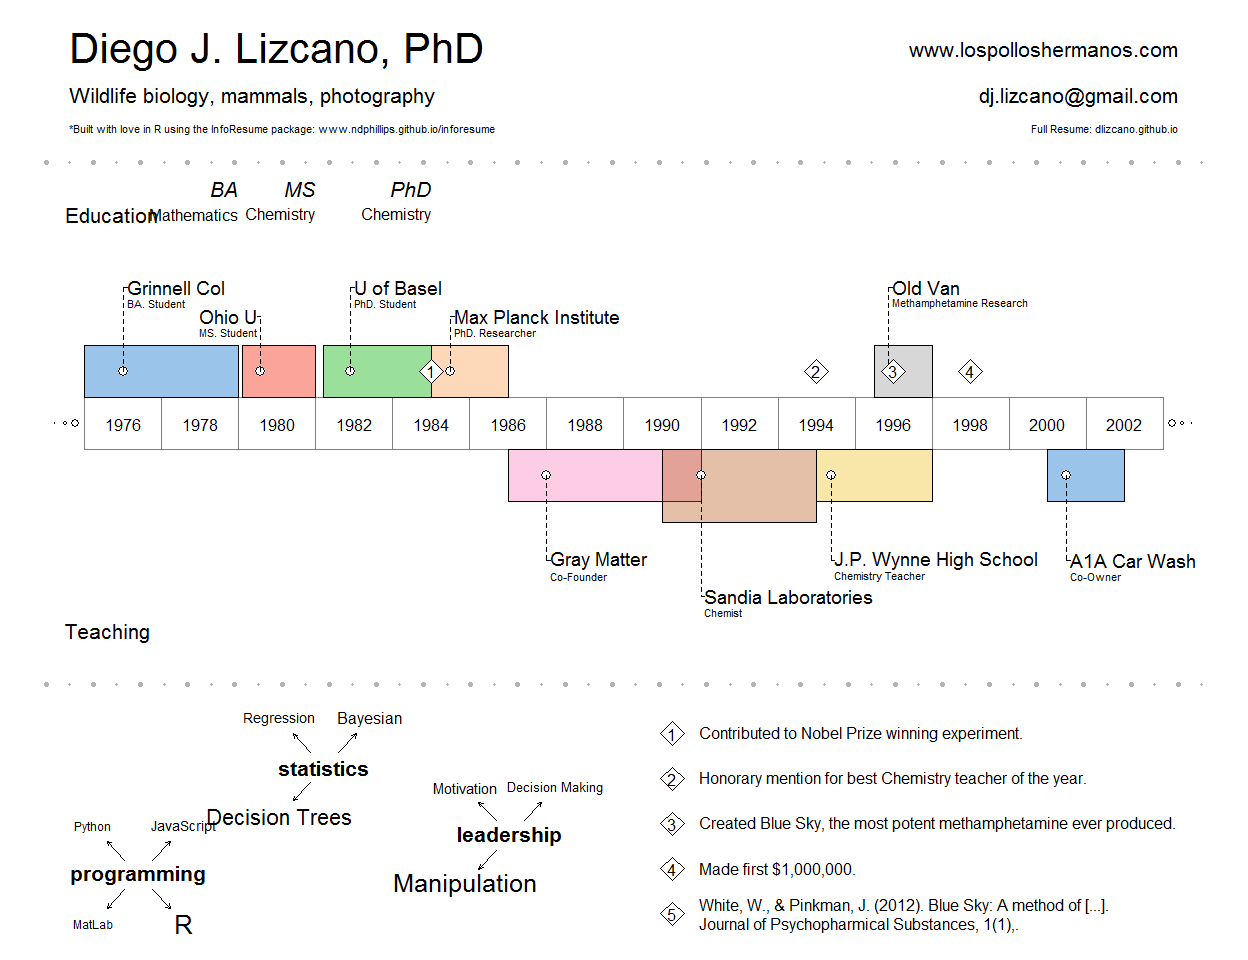
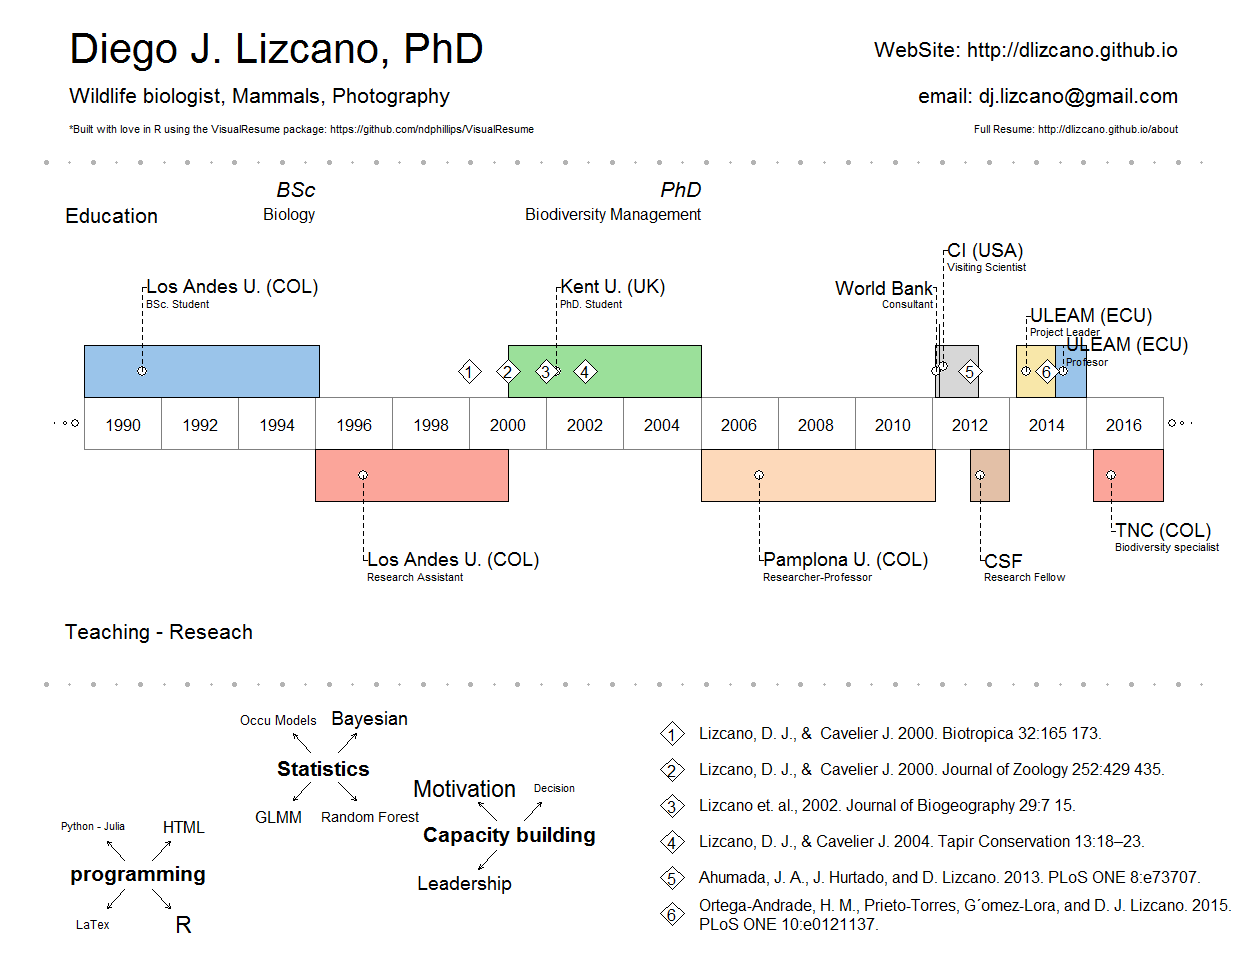
adapted to Diego`s info

diff --git a/README.md b/README.md
@@ -6,29 +6,32 @@ VisualResume
 The `VisualResume` package contains the `VisualResume.R` function which produces a Visual resume like the one below:
 
 ``` r
+
 VisualResume::VisualResume(
- titles.left = c("Diego J. Lizcano, PhD", "Wildlife biology, mammals, photography", "*Built with love in R using the InfoResume package: www.ndphillips.github.io/inforesume"),
-titles.right = c("www.lospolloshermanos.com", "dj.lizcano@gmail.com", "Full Resume: dlizcano.github.io"),
+ titles.left = c("Diego J. Lizcano, PhD", "Wildlife biologist, Mammals, Photography", "*Built with love in R using the VisualResume package: https://github.com/ndphillips/VisualResume"),
+titles.right = c("WebSite: http://dlizcano.github.io", "email: dj.lizcano@gmail.com", "Full Resume: http://dlizcano.github.io/about"),
 titles.right.cex = c(2, 2, 1),
 titles.left.cex = c(4, 2, 1),
-timeline.labels = c("Education", "Teaching"),
-timeline = data.frame(title = c("Grinnell Col", "Ohio U", "U of Basel", "Max Planck Institute", "Old Van", "Gray Matter", "Sandia Laboratories", "J.P. Wynne High School", "A1A Car Wash"),
-                      sub = c("BA. Student", "MS. Student", "PhD. Student", "PhD. Researcher", "Methamphetamine Research", "Co-Founder", "Chemist", "Chemistry Teacher", "Co-Owner"),
-                      start = c(1976, 1980.1, 1982.2, 1985, 1996.5, 1987, 1991, 1995, 2001),
-                      end = c(1980, 1982, 1985, 1987, 1998, 1992, 1995, 1998, 2003),
-                      side = c(1, 1, 1, 1, 1, 0, 0, 0, 0)),
-milestones = data.frame(title = c("BA", "MS", "PhD"),
-                        sub = c("Mathematics", "Chemistry", "Chemistry"),
-                        year = c(1980, 1982, 1985)),
-events = data.frame(year = c(1985, 1995, 1997, 1999, 2012),
-                    title = c("Contributed to Nobel Prize winning experiment.",
-                              "Honorary mention for best Chemistry teacher of the year.",
-                              "Created Blue Sky, the most potent methamphetamine ever produced.",
-                              "Made first $1,000,000.",
-                              "White, W., & Pinkman, J. (2012). Blue Sky: A method of [...].\nJournal of Psychopharmical Substances, 1(1),.")),
-interests = list("programming" = c(rep("R", 10), rep("Python", 1), rep("JavaScript", 2), "MatLab"),
-                 "statistics" = c(rep("Decision Trees", 10), rep("Bayesian", 5), rep("Regression", 3)),
-                 "leadership" = c(rep("Motivation", 10), rep("Decision Making", 5), rep("Manipulation", 30))),
+timeline.labels = c("Education ", "Teaching - Reseach"),
+timeline = data.frame(title = c("Los Andes U. (COL)", "Los Andes U. (COL)", "Kent U. (UK)", "Pamplona U. (COL)", "World Bank", "CI (USA)", "CSF", "ULEAM (ECU)", "ULEAM (ECU)", "TNC (COL)"),
+                      sub = c("BSc. Student", "Research Assistant", "PhD. Student", "Researcher-Professor",  "Consultant", "Visiting Scientist", "Research Fellow", "Project Leader", "Profesor", "Biodiversity specialist"), # wordl bank and CI are troked for display
+                      start = c(1990, 1996  , 2001, 2006  , 2012.1, 2012.1, 2013, 2014.2, 2015.2, 2016.2),
+                      end = c(1996.1, 2001, 2006, 2012.1, 2013.2, 2012.2, 2014, 2015.2, 2016, 2018),
+                      side = c(1, 0, 1, 0, 1, 1, 0, 1, 1, 0)), # 1 arriba, 0 abajo
+milestones = data.frame(title = c("BSc",  "PhD"),
+                        sub = c("Biology",  "Biodiversity Management"),
+                        year = c(1996,  2006)),
+events = data.frame(year = c(2000, 2001, 2002, 2003, 2013, 2015),
+                    title = c("Lizcano, D. J., &  Cavelier J. 2000. Biotropica 32:165 173.",
+                              "Lizcano, D. J., &  Cavelier J. 2000. Journal of Zoology 252:429 435.",
+                              "Lizcano et. al., 2002. Journal of Biogeography 29:7 15.",
+                              "Lizcano, D. J., & Cavelier J. 2004. Tapir Conservation 13:18–23.",
+                              "Ahumada, J. A., J. Hurtado, and D. Lizcano. 2013. PLoS ONE 8:e73707.",
+                              "Ortega-Andrade, H. M., Prieto-Torres, Ǵomez-Lora, and D. J. Lizcano. 2015.\nPLoS ONE 10:e0121137.")),
+interests = list("programming" = c(rep("R", 19), rep("LaTex", 2), rep("HTML", 10), "Python - Julia"),
+                 "Statistics" = c(rep("GLMM", 6), rep("Bayesian", 8), rep("Occu Models", 2), 
+                                  rep("Random Forest", 3)),
+                 "Capacity building" = c(rep("Motivation", 15), rep("Decision", 1), rep("Leadership", 10))),
 year.steps = 2
 )
 ```
